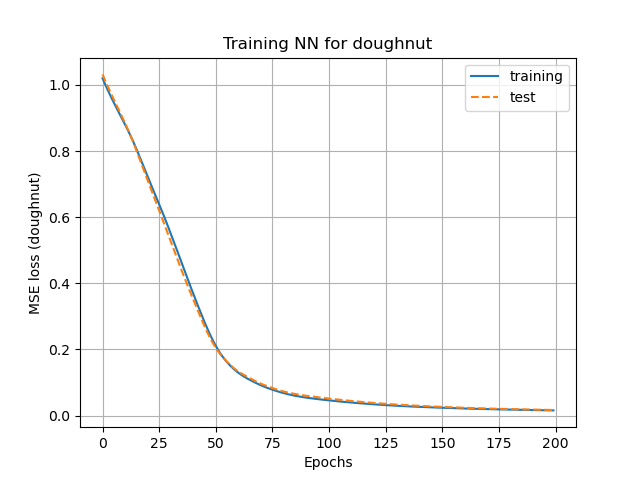
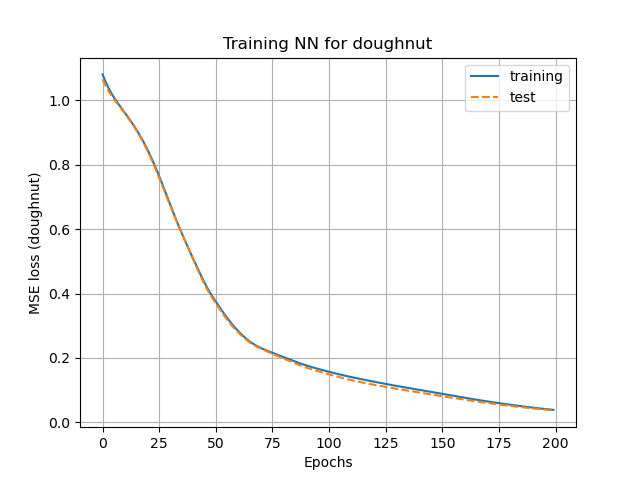
added comments

diff --git a/control_example.py b/control_example.py
@@ -100,13 +100,13 @@ def fioas_control(t, world, k):
     return 1
 
 def fioaa_control(t, world, k):
-    return 1
+    return 1.2
 
 def fioac_control(t, world, k):
     return 1
 
 world3 = World3(year_max=2100, noise=False)
-world3.set_world3_control()
+world3.set_world3_control(fioaa_control=fioaa_control)
 world3.init_world3_constants()
 world3.init_world3_variables()
 world3.set_world3_table_functions()
@@ -128,7 +128,7 @@ print(world3.fioas)
 
 print("fracsum")
 fracsum = world3.fioas + world3.fioai + world3.fioaa + world3.fioac
-#print(fracsum)
+print(fracsum)
 
 
 plot_world_variables(

diff --git a/data_generation.py b/data_generation.py
@@ -36,11 +36,11 @@ MIN_YEAR = 1900
 MAX_YEAR = 2100
 PLOT = False # toggle plots and prints
 DEBUG_MODE = False # toggle debug mode, data does not get saved to file (to prevent overwriting better/useful data that may have taken a long time to generate)
-FAST = True
+FAST = True 
 NOISE = False
-RUNS = 50
+RUNS = 1000    # 1000 run for results
 
-ID = "3" # training set ID
+ID = "1" # training set ID  # 1 to 5 for 5 versions of each
 
 
 # Standard run, used for randomising initial state

diff --git a/pyworld3/capital.py b/pyworld3/capital.py
@@ -611,13 +611,13 @@ class Capital:
 
         self.fioacv[k] = self.fioacv_f(self.iopc[k] / self.iopcd)
 
-        print(self.fioacv[k])
+        #print(self.fioacv[k])
 
         self.fioacc[k] = self.fioac_value
 
         self.fioac[k] = clip(self.fioac_control(k)*clip(self.fioacv[k], self.fioacc[k], self.time[k], self.iet), 0, 1)
 
-        print(self.fioac[k])
+        #print(self.fioac[k])
         
         #self.fioacv[k] = self.fioacv_f(self.iopc[k] / self.iopcd)
         #self.fioac_control_values[k] = clip(self.fioac_control(k), 0, 1)